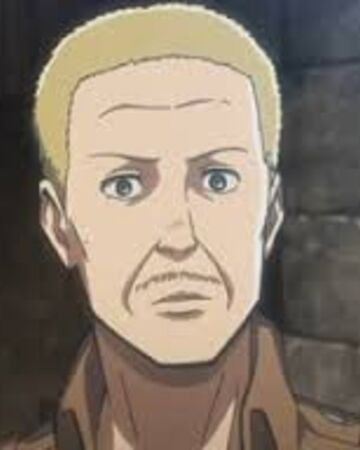
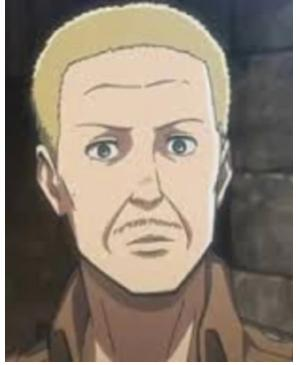
Add files via upload

diff --git a/Titan-Defense/src/view/GameView.java b/Titan-Defense/src/view/GameView.java
@@ -20,7 +20,7 @@ public class GameView implements ActionListener, IRMapaController, IRCidadeContr
     private ImageIcon piso = new ImageIcon(getClass().getResource("/img/pisoDePedra3.jpg"));
     private ImageIcon gold_img = new ImageIcon(getClass().getResource("/img/gold.jpg"));
     private ImageIcon vida_img = new ImageIcon(getClass().getResource("/img/vida.jpg"));
-    private ImageIcon hannes = new ImageIcon(getClass().getResource("/img/predio2.jpg"));
+    private ImageIcon hannes = new ImageIcon(getClass().getResource("/img/Hannes.jpg"));
     private ImageIcon muralha = new ImageIcon(getClass().getResource("/img/muralha.jpg"));
     private ImageIcon colossau = new ImageIcon(getClass().getResource("/img/colossau.jpg"));
     private ImageIcon erro = new ImageIcon(getClass().getResource("/img/erro.jpg"));
@@ -239,8 +239,6 @@ public class GameView implements ActionListener, IRMapaController, IRCidadeContr
 
     private void partida() throws InterruptedException {
         janela.setLayout(new GridLayout(9, 12));
-        JOptionPane.showMessageDialog(null, "Ajude a protejer a cidade e seus aldeões dos titans que estão invadindo\n"
-                + "construa torres de defeza em cima dos prédios e tente salvar o maximo de aldeões possivevis");
         janela.repaint();
         for(int x = 0; x < 9; x++)
         {
@@ -333,15 +331,13 @@ public class GameView implements ActionListener, IRMapaController, IRCidadeContr
         errado_print.setText(provi);
         janela.add(errado_print);
 
-        for (int i = 8; i < 10; i++)
-        {
-            JLabel campo = new JLabel(piso);
-            janela.add(campo);
-        }
         info.addActionListener(this);
         janela.add(info);
         start.addActionListener(this);
         janela.add(start);
+        
+        JOptionPane.showMessageDialog(null, "Ajude a protejer a cidade e seus aldeões dos titans que estão invadindo\n"
+                + "construa torres de defeza em cima dos prédios e tente salvar o maximo de aldeões possivevis");
         int loop = 0;
         while(loop == 0)
         {
@@ -360,7 +356,7 @@ public class GameView implements ActionListener, IRMapaController, IRCidadeContr
             fase_print.setText("Fase: " + provi);
             int mortes = 350 - vida;
             provi = "" + mortes;
-            errado_print.setText("Death: " + provi);
+            errado_print.setText("Mortes: " + provi);
             Thread.sleep(250);
             Thread.sleep(250);
             //System.out.print("");

diff --git a/Titan-Defense/src/view/AppMain.java b/Titan-Defense/src/view/AppMain.java
@@ -6,7 +6,27 @@ public class AppMain {
     public static void main(String[] args) throws InterruptedException {
         Montador montador = new Montador();
         montador.montarJogo();
-        String[] falas = {"hannes", "oi", "hannes", "das"};
+        String[] falas = {"brasao","Naquele dia….",
+        		"brasao","A humanidade se lembrou…",
+        		"brasao","Do terror de estar nas mãos deles…",
+        		"brasao","Da humilhação de estar nas mãos deles",
+        		"eren","Senhor Hannes, por acaso vc estava bebendo?!(soldados bebendo ao fundo)"
+        		+ "\n O senhor não deveria estar vigiando o portão?",
+        		"hannes","A gente tava aqui o dia todo sem fazer nada, então ficamos com sede",
+        		"erern","Se acontecer alguma coisa?? vocês vão conseguir lutar??",
+        		"hannes","Como assim??? Se acontecer alguma coisa?",
+        		"eren","E se eles invadirem a cidade?",
+        		"hannes","Não se preocupe. hahahahahah  Isso não ocorre ha mais de 100 anos",
+        		"eren","Mas é perigoso se descuidar assim",
+        		"hannes","As muralhas tem 50m de altura, não tem como eles invadirem",
+        		"colossau","aghhhhhhhhhh",
+        		"eren","Nn...não pode ser... a... aquela muralha tem 50m de altura",
+        		"muralha","capummmm",
+        		"hannes","Não",
+        		"hannes","Não pode ser",
+        		"brasao","Naquele dia a humanidade se lembrou do terror de estar nas mãos deles,"
+        		+ " de estar preso…",
+        		"brasao","Da Humilhação de estar na mãos deles"};
         montador.getGameView().start(falas);
     }
 }
